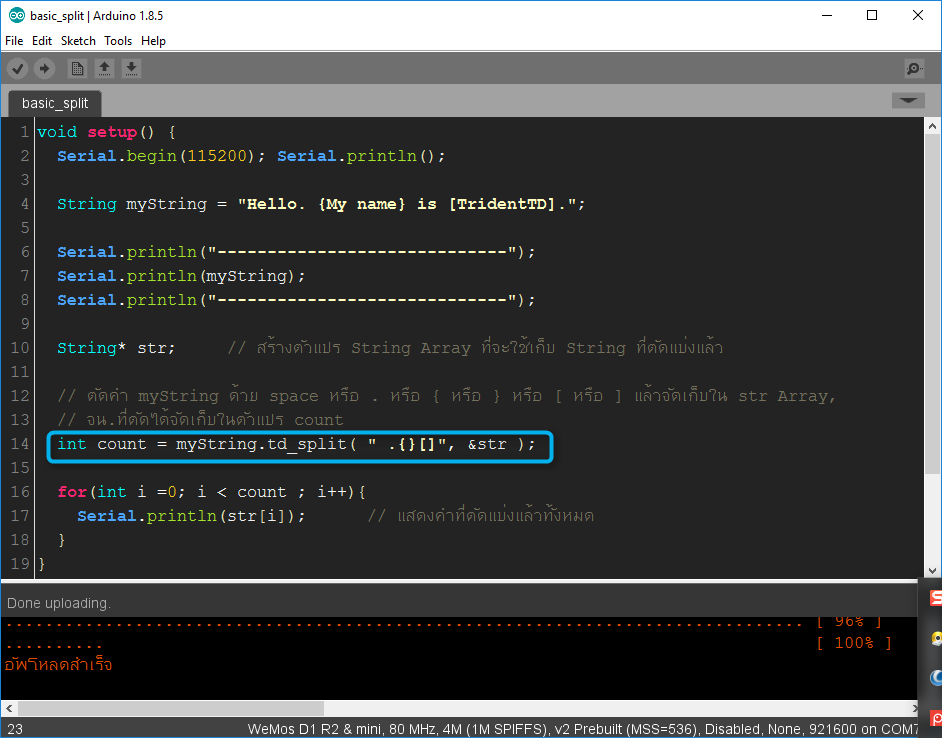
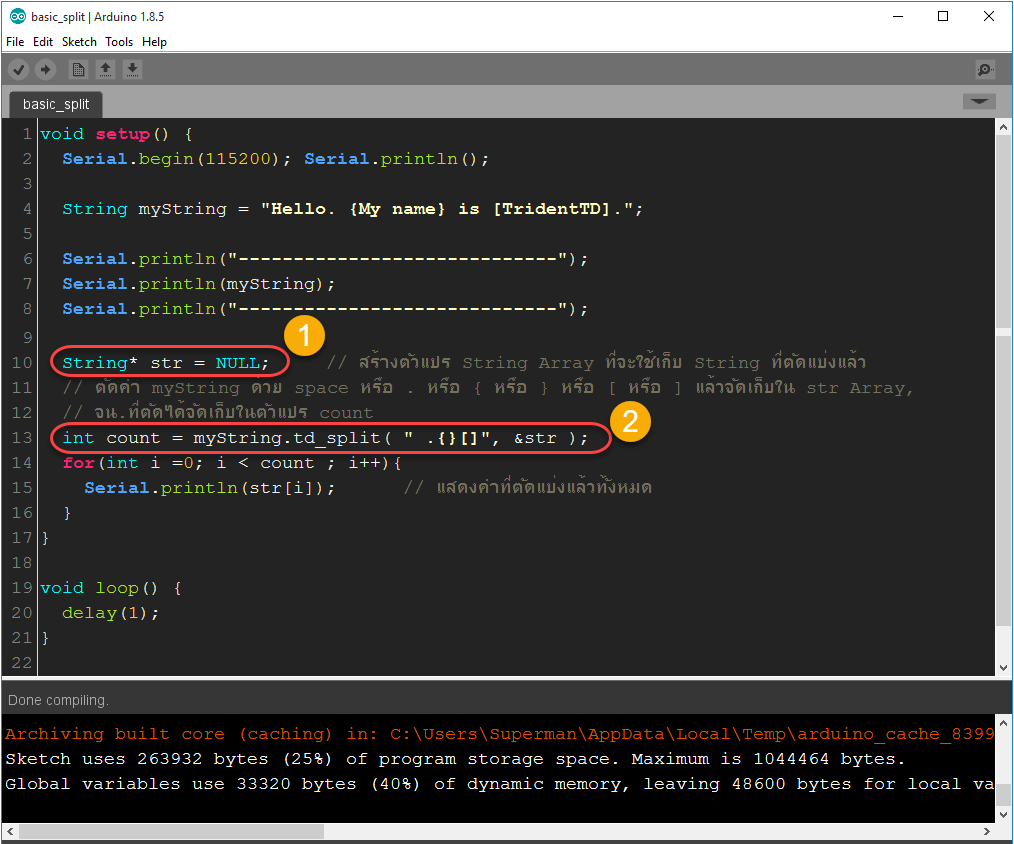
Version 2.3  td_split() set clean data to NULL

Changed region(s): [[0.0, 0.0, 1.0, 1.0], [0.4002, 0.6856, 0.6465, 0.7168], [0.6773, 0.5298, 0.8928, 0.561]]

diff --git a/ESP8266/WString.cpp b/ESP8266/WString.cpp
@@ -763,9 +763,12 @@ void String::trim(void) {
 /************************************************************/
 /*  TridentTD's split : split by delimiters to String Array */
 /************************************************************/
-// Version 2.2
+// Version 2.3
 int String::td_split(String delimiter, String** str_array) {
-  delete[] *str_array;
+  if(*str_array != NULL) {
+    delete[] *str_array;
+    *str_array = NULL;
+  }
 
   if(!buffer || len == 0) {
     *str_array = new String[1];

diff --git a/Arduino/WString.cpp b/Arduino/WString.cpp
@@ -785,7 +785,10 @@ void String::trim(void)
 // /************************************************************/
 // Version 2.2
 int String::td_split(String delimiter, String** str_array) {
-  delete[] *str_array;
+  if(*str_array != NULL) {
+    delete[] *str_array;
+    *str_array = NULL;
+  }
 
   if(!buffer || len == 0) {
     *str_array = new String[1];

diff --git a/ESP32/WString.cpp b/ESP32/WString.cpp
@@ -919,7 +919,10 @@ void String::trim(void)
 // /************************************************************/
 // Version 2.2
 int String::td_split(String delimiter, String** str_array) {
-  delete[] *str_array;
+  if(*str_array != NULL) {
+    delete[] *str_array;
+    *str_array = NULL;
+  }
 
   if(!buffer || len == 0) {
     *str_array = new String[1];
